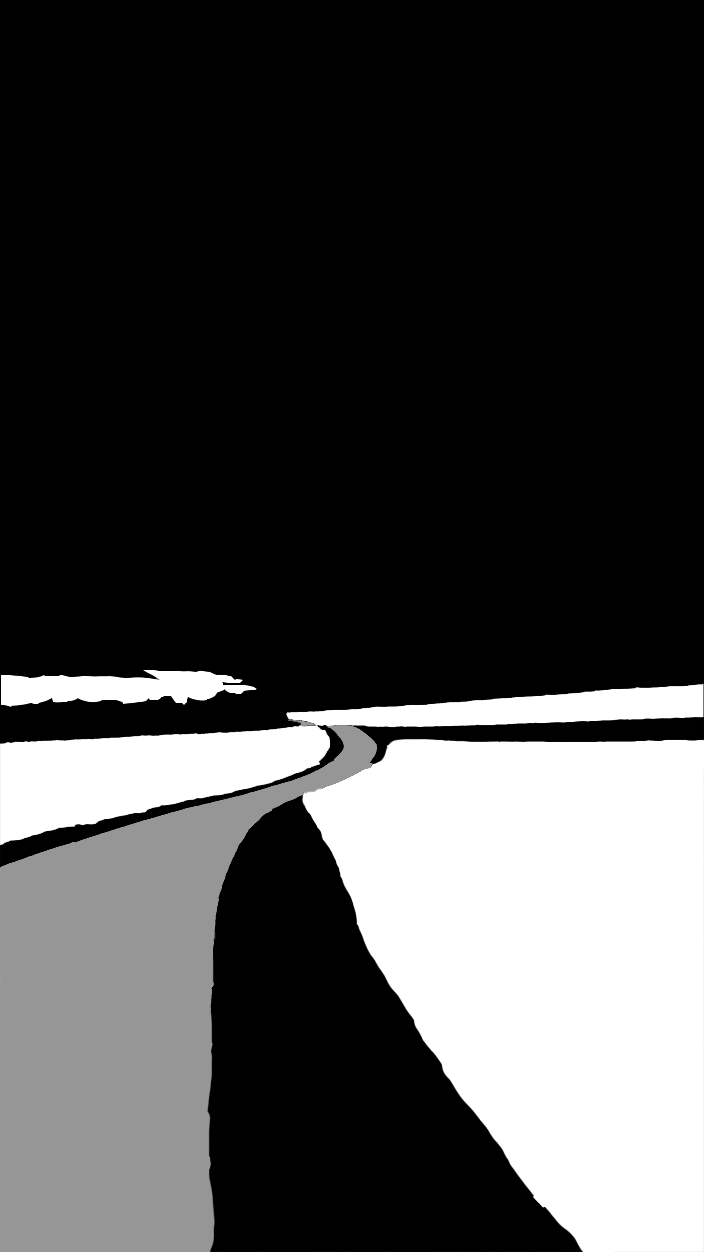
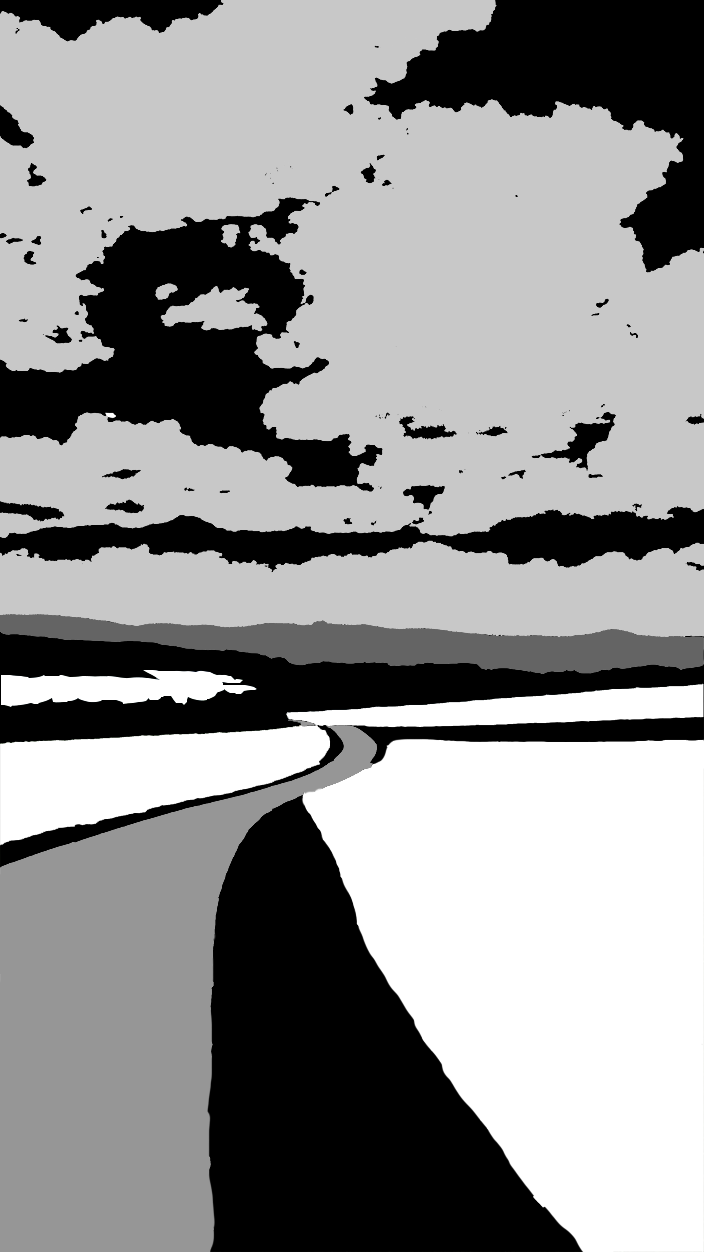
this

diff --git a/sketch.js b/sketch.js
@@ -36,11 +36,23 @@ function draw () {
       let pixl = sourceImg.get(x,y);
       let mask = maskImg.get(x,y);
       fill(pixl);
-      let x2 = x+floor(random(30));
-      let y2 = y+floor(random(30));
-      let x3 = x-floor(random(30));
-      let y3 = y-floor(random(30));
-      if (mask[0] > 128 && mask[0]<250) {
+      let x2 = x+floor(random(20));
+      let y2 = y+floor(random(20));
+      let x3 = x-floor(random(20));
+      let y3 = y-floor(random(20));
+      let x4 = x+floor(random(25));
+      let y4 = y+floor(random(25));
+      let x5 = x-floor(random(25));
+      let y5 = y-floor(random(25));
+      if (mask[0]>99 && mask[0]<101) {
+        noStroke();
+        rect(x,y,chunkWidth,chunkHeight);
+        stroke(200);
+        strokeWeight(1);
+        triangle(x-chunkWidth,y+chunkHeight,x,y,x+chunkWidth,y+chunkHeight);
+        triangle(x,y,x,y+chunkHeight,x+(chunkWidth/2),y+chunkHeight);
+      }
+      else if (mask[0] > 101 && mask[0]<151) {
         // stroke(155);
         // let cwx = chunkWidth/2;
         // let chx = chunkHeight/2;
@@ -52,12 +64,20 @@ function draw () {
         fill(pixl)
         rect(x,y,chunkWidth,chunkHeight);
       } 
+      else if (mask[0]>151 && mask[0]<201) {
+        stroke(255);
+        strokeWeight(1);
+        ellipse(x,y,30,30);
+      }
       else if (mask[0]>250) {
         stroke(pixl);
         strokeWeight(2);
         line(x,y,x+chunkWidth,y+chunkHeight);
         line(x,y,x2,y2);
         line(x,y,x3,y3);
+        line(x,y,x4,y4);
+        line(x,y,x5,y5);
+
       }
       else{
         stroke(pixl);
